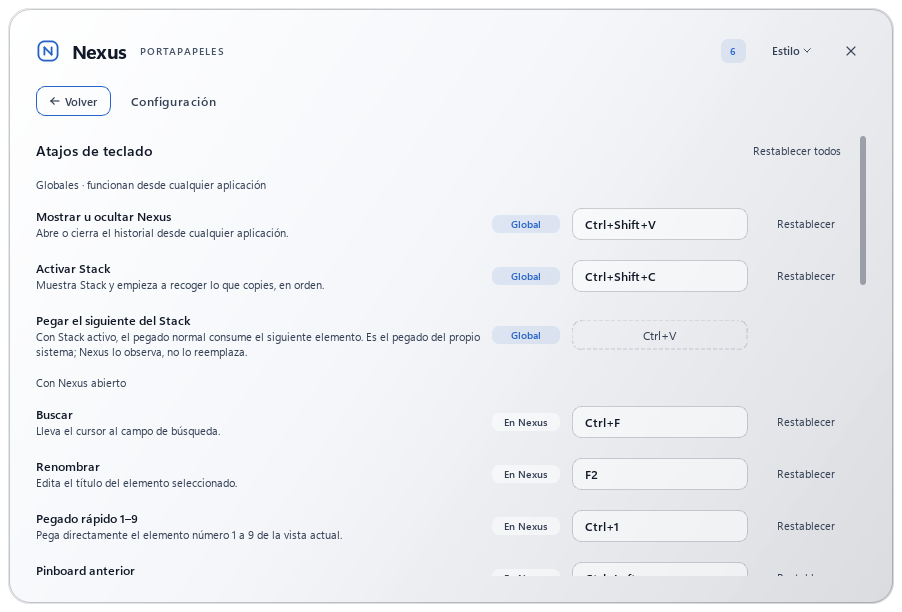
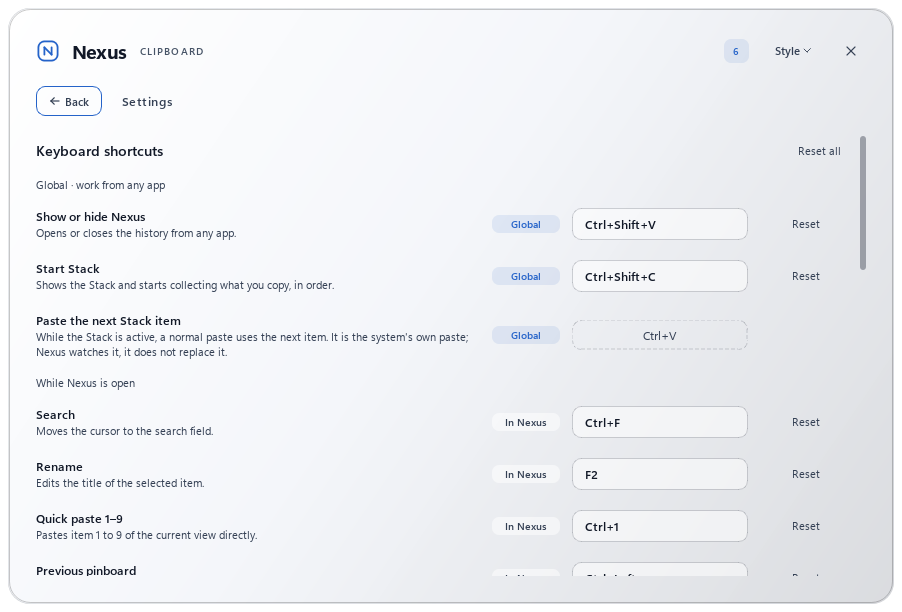
docs: platforms, macOS handoff, road to 1.0; CI; English screenshots
- README (EN/ES): platform table (Windows / Linux / macOS), installer download
  and install scope, SmartScreen note, language, how to build the installer
- docs/PLATFORMS.md: status and app requirements per system
- MACOS.md: handoff checklist for reviewing/updating the Swift build on a Mac
- ROADMAP_1.0.md: blockers for 1.0, recommendations, unification plan
- CI: tests on every push/PR (windows-latest); installer built on tags
- screenshots regenerated with the English interface
- tests: frozen start-with-Windows command; hook test skipped on CI runners

diff --git a/tests/test_audit_2026_11.py b/tests/test_audit_2026_11.py
@@ -1,4 +1,5 @@
 """Regression tests for the 2026-11 reliability/security/UX audit fixes."""
+import os
 import time
 
 import pytest
@@ -213,8 +214,8 @@ def test_paste_watcher_survives_hook_refresh_cycles(qapp, monkeypatch):
     """Regression (v4/v5): the periodic re-install read MSG.hwnd (the field is hWnd),
     killed the watcher thread after 15 s and stopped the Stack until restart."""
     import sys
-    if sys.platform != "win32":
-        pytest.skip("Windows low-level hook")
+    if sys.platform != "win32" or os.environ.get("CI"):
+        pytest.skip("Windows low-level hook on an interactive desktop")
     monkeypatch.setattr(keyboard, "HOOK_REFRESH_MS", 40)
     watcher = keyboard.WindowsPasteWatcher()
     failures = []
@@ -229,3 +230,13 @@ def test_paste_watcher_survives_hook_refresh_cycles(qapp, monkeypatch):
     finally:
         watcher.stop()
     assert not watcher._thread.is_alive()
+
+
+def test_start_with_windows_points_at_nexus_exe_when_frozen(monkeypatch):
+    import sys
+    from nexus_linux import windows_autostart
+    monkeypatch.setattr(sys, "frozen", True, raising=False)
+    monkeypatch.setattr(sys, "executable", r"C:\Users\x\AppData\Local\Programs\Nexus\Nexus.exe")
+    command = windows_autostart.launch_command()
+    assert command == r'"C:\Users\x\AppData\Local\Programs\Nexus\Nexus.exe"'
+    assert windows_autostart.is_ours(command) and not windows_autostart.is_ours(r'"C:\Other\App.exe"')

diff --git a/ROADMAP_1.0.md b/ROADMAP_1.0.md
@@ -1,0 +1,68 @@
+# Road to Nexus 1.0.0
+
+What "1.0" should mean for Nexus: **someone who has never met the author can install it on any of the three systems, use it every day without surprises, update it, and trust it with their clipboard.** Version 0.4.0 meets that bar on Windows for the core features, but not yet for trust (signing), updates, or the other two systems.
+
+## Where 0.4.0 stands
+
+| Area | State |
+|---|---|
+| Core features (history, search, pinboards, titles, Stack, themes) | Solid on Windows; 1,360+ automated tests |
+| Reliability fixes from the 2026-11 audit | Done; validated with tests and a real-clipboard probe, not yet with weeks of real use |
+| Interface language | English and Spanish (Windows) |
+| Windows installer | Done: per-user or all-users, clean uninstall |
+| Linux | Early build on its own branch, Spanish only, no package |
+| macOS | Original Swift app, outside the repository |
+| Signing, updates, CI | Missing |
+
+## Must have for 1.0 (blockers)
+
+1. **Signed Windows builds.** Unsigned installers trigger SmartScreen warnings, the main reason people abandon a download. Apply to the SignPath Foundation (free code signing for open-source projects), or buy a certificate or Azure Trusted Signing.
+2. **Real-world validation.** Two to four weeks of daily use plus a scripted native test of the risky paths: paste into Office/Chrome/Electron/terminal, the Stack across Win+L and sleep, apps running as administrator, 4K screenshots, two monitors at different DPI. Track any `paste.finish`, `capture.dropped` or `paste_watcher.*` warnings in the log.
+3. **Update path.** At minimum, an "update available" notice that checks the GitHub releases page once a day (opt-out, no data sent beyond the request). Better: winget, or an in-app updater that downloads and runs the signed installer.
+4. **Continuous integration.** Run the test suite on every push and build the installer on every tag (GitHub Actions, `windows-latest`). Releases then come from CI, not from a personal PC.
+5. **One codebase, three platforms** (see below). 1.0 should not mean "1.0 on Windows, beta elsewhere": either all three ship from this repository, or the README says plainly which systems are 1.0.
+6. **Settings that exist today only in `settings.json`**: excluded apps and history retention need a place in Settings.
+
+## Should have
+
+- **First-run guide**: three steps (shortcut, paste, Stack) on first launch, dismissible.
+- **Backup and restore from Settings**: export/import the database (the verified backup code already exists in `tools/windows_db_tools.py`).
+- **Diagnostics button**: "Copy diagnostic info" (version, OS, last 200 log lines, never clip content) for bug reports.
+- **Accessibility pass**: screen-reader names on every control, Windows high-contrast themes, full keyboard path through pinboard management.
+- **Large-history test**: 50,000 clips with images; keep open < 50 ms and search < 10 ms.
+- **CHANGELOG.md** and semantic versioning from here on.
+- **Store presence**: winget first, then Microsoft Store (MSIX), Flathub, and a notarized macOS `.pkg`.
+
+## Nice to have
+
+- Sync between devices (end-to-end encrypted, opt-in).
+- Snippets with placeholders (`{date}`, `{clipboard}`), plain-text transforms (trim, change case).
+- Per-app rules (always plain text in terminals).
+- Encryption at rest for the database (Windows DPAPI / macOS Keychain / libsecret).
+
+## Unifying the three systems
+
+Today Windows and Linux share history, storage and preview code, but each has its own windows, styles and platform code, and they live on different branches; macOS is a separate Swift app. Recommendation: **one Python + Qt 6 codebase on `main`**, organized as:
+
+```
+src/nexus/
+  core/        storage, search, previews, i18n, models, Stack logic   (no Qt widgets, no OS calls)
+  ui/          the panel, cards, Stack, settings, themes              (Qt widgets, shared by all)
+  platform/
+    windows/   clipboard events, paste (SendInput), hotkeys, autostart, Acrylic
+    linux/     wl-clipboard/X11, paste helper or portals, hotkeys, autostart (.desktop)
+    macos/     NSPasteboard, CGEvent paste (Accessibility), hotkeys, login item, vibrancy
+```
+
+Steps, each one shippable on its own:
+
+1. Move the Linux branch onto `main` behind the `platform/linux` adapter; delete duplicated UI modules in favour of the Windows ones, which are the most polished (themes, cards, Settings, i18n).
+2. Extract `core/` and `ui/` from the current `windows_*` modules (mostly renames plus small interfaces such as `ClipboardSource`, `PasteTarget`, `HotkeyService`, `Autostart`).
+3. Write `platform/macos` with PySide6 (pasteboard change count polling, `CGEventPost` for ⌘V after an Accessibility check, Carbon hotkeys via `pyobjc`), package with PyInstaller as a `.app`, and ship a `.pkg` with the per-user/all-users choice.
+4. Keep the Swift app as the design reference until the Qt macOS build matches it, then retire it (or keep it as a separate native edition if it remains clearly better).
+
+Why not three native apps: three times the features to keep in sync, which is exactly where the current Windows/Linux drift came from.
+
+## Suggested sequence
+
+0.5 Settings for exclusions and retention, CI, update notice, first-run guide → 0.6 unified codebase with Linux on `main` (Flatpak/AppImage) → 0.7 macOS on the shared codebase (signed `.pkg`) → 0.8–0.9 signing on Windows, accessibility, large-history performance, real-world beta → **1.0** when all blockers above are closed.

diff --git a/README.md b/README.md
@@ -5,7 +5,8 @@
 <h1 align="center">Nexus</h1>
 
 <p align="center">
-  <b>A fast, private clipboard manager for Windows: history, pinboards and sequential paste.</b><br>
+  <b>A fast, private clipboard manager: history, pinboards and sequential paste.</b><br>
+  Windows today, Linux in early access, macOS on the way.<br>
   Press <kbd>Ctrl</kbd>+<kbd>Shift</kbd>+<kbd>V</kbd>, find anything you copied, paste it where you were.
 </p>
 
@@ -36,6 +37,7 @@ Windows' built-in clipboard history (<kbd>Win</kbd>+<kbd>V</kbd>) keeps 25 items
 - **Nexus Stack: sequential paste.** Copy A, B, C… then press <kbd>Ctrl</kbd>+<kbd>V</kbd> repeatedly to paste them in order, or in reverse. Ideal for filling forms or moving data between apps.
 - **Keyboard first.** <kbd>Ctrl</kbd>+<kbd>1</kbd>…<kbd>9</kbd> quick paste, <kbd>Enter</kbd> paste, <kbd>Shift</kbd>+<kbd>Enter</kbd> plain text, <kbd>F2</kbd> rename, <kbd>Del</kbd> delete with <kbd>Ctrl</kbd>+<kbd>Z</kbd> undo. Every shortcut can be changed.
 - **Five themes,** including *Liquid Glass*: real Windows 11 Acrylic that follows your light/dark preference.
+- **English and Spanish,** picked automatically from your system language.
 - **Respects your privacy.** See below.
 
 <p align="center">
@@ -51,18 +53,38 @@ Nexus never sends your clipboard anywhere. Everything lives in one SQLite file u
 - **Deleted means deleted.** `secure_delete` overwrites removed clips on disk and the database compacts itself.
 - **No telemetry, no account, no network** except the optional link previews.
 
-## Install
+## Platforms
 
-Requirements: Windows 11 (Windows 10 is untested) and Python 3.11 or newer.
+| | Status | Get it |
+|---|---|---|
+| **Windows 11** | ✅ Main build, English and Spanish | [Installer (.exe)](https://github.com/Manuelcarvajal09/nexus/releases/latest) |
+| **Linux** (Wayland: Hyprland, KDE) | 🧪 Early build, Spanish interface | From source, branch [`linux/auditoria-2026-11`](https://github.com/Manuelcarvajal09/nexus/tree/linux/auditoria-2026-11) |
+| **macOS** | 🛠 Native original (Swift) being brought into this repository | Coming soon, see [MACOS.md](MACOS.md) |
+
+Requirements, packaging and install options for each system: [docs/PLATFORMS.md](docs/PLATFORMS.md). The plan to ship all three from one codebase: [ROADMAP_1.0.md](ROADMAP_1.0.md).
+
+## Install on Windows
+
+1. Download **`Nexus-Setup-<version>.exe`** from the [latest release](https://github.com/Manuelcarvajal09/nexus/releases/latest).
+2. Run it and choose **Install for me only** (no administrator rights) or **Install for all users**.
+3. Nexus starts in the notification area. Press <kbd>Ctrl</kbd>+<kbd>Shift</kbd>+<kbd>V</kbd> to open it, and turn on *Start with Windows* in **Settings** if you want it always available.
+
+> The installer is not code-signed yet, so Windows SmartScreen may say *"Windows protected your PC"*. Click **More info › Run anyway**. Each release lists the installer's SHA-256 so you can verify the download.
+
+Upgrading keeps your history, pinboards and settings. Uninstall from *Settings › Apps*; it asks before deleting your data.
+
+**Language:** the interface follows your Windows display language (Spanish, or English otherwise). Change it in **Settings › Language**.
+
+<details>
+<summary>Install with pip instead (Python 3.11+)</summary>
 
 ```powershell
 python -m pip install "git+https://github.com/Manuelcarvajal09/nexus.git"
 nexus-windows
 ```
 
-Nexus starts in the notification area. Press <kbd>Ctrl</kbd>+<kbd>Shift</kbd>+<kbd>V</kbd> to open it. Turn on *Start with Windows* in **Settings** if you want it always available.
-
 The only runtime dependency is `PySide6-Essentials` (Qt 6 Core/Gui/Widgets).
+</details>
 
 <details>
 <summary>Run from a clone (for development)</summary>
@@ -106,15 +128,23 @@ python -m venv .venv
 
 Design notes and audits live in the Markdown files at the root of the repository (in Spanish), for example [UX_AUDIT_2026-11.md](UX_AUDIT_2026-11.md).
 
-## Status
+## Building the installer
 
-- **Windows**: the main, actively developed build (this branch). The interface is currently in Spanish; English translation is welcome.
-- **Linux** (Wayland, Hyprland/KDE): early build on the [`linux/auditoria-2026-11`](https://github.com/Manuelcarvajal09/nexus/tree/linux/auditoria-2026-11) branch.
-- Nexus started as a port of a personal macOS app; the original is not published.
+```powershell
+python -m venv build-venv
+build-venv\Scripts\python -m pip install PySide6-Essentials pyinstaller
+powershell -ExecutionPolicy Bypass -File packaging\windows\build.ps1 -Python build-venv\Scripts\python.exe
+```
+
+Needs [Inno Setup 6](https://jrsoftware.org/isinfo.php). Output: `dist-installer\Nexus-Setup-<version>.exe` plus its SHA-256.
+
+## Roadmap
+
+Nexus is heading to **1.0**: signed builds, an update path, CI releases, and Windows, Linux and macOS shipped from one codebase. Details and the release sequence are in [ROADMAP_1.0.md](ROADMAP_1.0.md).
 
 ## Contributing
 
-Issues and pull requests are welcome. Good first contributions: an English translation of the interface, more card types, and testing on different Windows setups. See [CONTRIBUTING.md](CONTRIBUTING.md).
+Issues and pull requests are welcome. Good first contributions: more interface languages (see `src/nexus_linux/i18n_en.py`), more card types, testing on different Windows setups, and help with the Linux and macOS builds. See [CONTRIBUTING.md](CONTRIBUTING.md).
 
 If Nexus saves you time, a ⭐ helps other people find it.
 

diff --git a/docs/PLATFORMS.md b/docs/PLATFORMS.md
@@ -1,0 +1,53 @@
+# Platforms: status and app requirements
+
+Nexus has three builds today. They share the product (history, pinboards, Nexus Stack, themes) but not yet one codebase; see [ROADMAP_1.0.md](../ROADMAP_1.0.md) for the unification plan.
+
+| | Windows | Linux | macOS |
+|---|---|---|---|
+| Code | `main` (this branch), Python + Qt 6 | [`linux/auditoria-2026-11`](https://github.com/Manuelcarvajal09/nexus/tree/linux/auditoria-2026-11), Python + Qt 6 | Original Swift/SwiftUI app, not yet in this repository |
+| Status | Main build, released | Early build, Wayland (Hyprland/KDE) | Private original; to be reviewed and published |
+| Interface language | English / Spanish (automatic) | Spanish | Spanish |
+| Installer | `Nexus-Setup-<version>.exe` | Not yet | Not yet |
+
+Legend below: ✅ done · 🟡 partial · ❌ missing.
+
+## Windows
+
+| Requirement | Status | Notes |
+|---|---|---|
+| Native installer with uninstaller | ✅ | Inno Setup 6 (`packaging/windows`). Registers in *Settings › Apps* with publisher, version and icon. |
+| Install scope: current user or all users | ✅ | First page asks. "Only for me": no administrator rights, `%LOCALAPPDATA%\Programs\Nexus`. "All users": UAC, `Program Files\Nexus`. |
+| User data outside the install folder | ✅ | `%LOCALAPPDATA%\Nexus` per user; kept on upgrade; the uninstaller asks before deleting it. |
+| Upgrade in place | ✅ | Same `AppId`; a running Nexus is detected and closed first. |
+| File version resource (Explorer › Details) | ✅ | Product, company, version, copyright. |
+| Start menu entry with AppUserModelID | ✅ | Notifications and taskbar group under Nexus. |
+| Start with Windows: per user, off by default | ✅ | Settings › Startup (`HKCU\...\Run`); removed by the uninstaller. |
+| High DPI, light/dark, reduced motion | ✅ | Qt 6 per-monitor DPI; Liquid Glass follows the system theme; respects animation settings. |
+| Code signing (Authenticode) | ❌ | Unsigned: SmartScreen shows "Windows protected your PC" until the file builds reputation. Free option for open source: SignPath Foundation; paid: a code-signing certificate or Azure Trusted Signing. |
+| winget package | ❌ | Possible once releases are signed or have some reputation (manifest points at the release asset). |
+| Microsoft Store (MSIX) | ❌ | Needs an MSIX package and a Partner Center account. |
+| Automatic updates | ❌ | Today: download the new installer; settings and history are kept. |
+
+## Linux
+
+| Requirement | Status | Notes |
+|---|---|---|
+| `.desktop` entry and icon | 🟡 | `resources/nexus-linux.desktop` and PNG icons exist; not yet installed to the XDG `hicolor` theme sizes. |
+| AppStream metainfo (`io.github.manuelcarvajal09.Nexus.metainfo.xml`) | ❌ | Needed by software centers and Flathub. |
+| Package | ❌ | Recommended: Flatpak (Flathub) for distribution, AppImage as a single-file download. |
+| Install scope | ❌ | Flatpak covers both: `flatpak install --user` (per user, `~/.local/share/flatpak`) or `--system` (all users, needs admin). AppImage is always per user. |
+| XDG base directories | ✅ | Data in `$XDG_DATA_HOME`, config in `$XDG_CONFIG_HOME`. |
+| Wayland clipboard and paste | 🟡 | Works on wlroots/KDE with `wl-clipboard` and a paste helper; GNOME restricts global shortcuts and synthetic input (portal-based work needed). |
+
+## macOS
+
+| Requirement | Status | Notes |
+|---|---|---|
+| App bundle (`Nexus.app`) | 🟡 | The Swift original builds one; not in this repository yet. |
+| Code signing + notarization | ❌ | Requires an Apple Developer account (paid). Without it Gatekeeper blocks the first launch. |
+| Hardened Runtime and privacy strings | ❌ | Synthetic paste needs the **Accessibility** permission (`AXIsProcessTrusted`); the app must explain why. |
+| Install scope: current user or all users | ❌ | A signed `.pkg` built with `productbuild` and `<domains enable_currentUserHome="true" enable_localSystem="true"/>` makes macOS Installer ask "Install for me only" (`~/Applications`) or "Install for all users of this computer" (`/Applications`). A `.dmg` is drag-to-install only. |
+| Universal binary (Apple silicon + Intel) | ❌ | `xcodebuild -arch arm64 -arch x86_64`. |
+| Updates | ❌ | Sparkle is the usual choice outside the App Store. |
+
+See [MACOS.md](../MACOS.md) for the step-by-step handoff to bring the macOS build into this repository.

diff --git a/README.es.md b/README.es.md
@@ -5,7 +5,8 @@
 <h1 align="center">Nexus</h1>
 
 <p align="center">
-  <b>Gestor de portapapeles rápido y privado para Windows: historial, pinboards y pegado secuencial.</b><br>
+  <b>Gestor de portapapeles rápido y privado: historial, pinboards y pegado secuencial.</b><br>
+  Windows hoy, Linux en acceso anticipado y macOS en camino.<br>
   Pulsa <kbd>Ctrl</kbd>+<kbd>Mayús</kbd>+<kbd>V</kbd>, encuentra lo que copiaste y pégalo donde estabas.
 </p>
 
@@ -27,6 +28,27 @@ El historial de Windows (<kbd>Win</kbd>+<kbd>V</kbd>) guarda 25 elementos, los o
 - **Nexus Stack**: copia A, B, C… y pulsa <kbd>Ctrl</kbd>+<kbd>V</kbd> varias veces para pegarlos en orden o al revés. Ideal para formularios.
 - **Pensado para el teclado**: <kbd>Ctrl</kbd>+<kbd>1</kbd>…<kbd>9</kbd>, <kbd>Enter</kbd>, <kbd>Mayús</kbd>+<kbd>Enter</kbd> (texto plano), <kbd>F2</kbd> (renombrar), <kbd>Supr</kbd> con <kbd>Ctrl</kbd>+<kbd>Z</kbd> para deshacer. Todos los atajos se pueden cambiar.
 - **Cinco temas**, incluido *Liquid Glass* con Acrylic real de Windows 11 que sigue tu modo claro u oscuro.
+- **Español e inglés**, según el idioma de tu sistema.
+
+## Plataformas
+
+| | Estado | Cómo obtenerlo |
+|---|---|---|
+| **Windows 11** | ✅ Versión principal, en español e inglés | [Instalador (.exe)](https://github.com/Manuelcarvajal09/nexus/releases/latest) |
+| **Linux** (Wayland: Hyprland, KDE) | 🧪 Versión temprana, interfaz en español | Desde el código, rama [`linux/auditoria-2026-11`](https://github.com/Manuelcarvajal09/nexus/tree/linux/auditoria-2026-11) |
+| **macOS** | 🛠 App nativa original (Swift) en proceso de incorporarse a este repositorio | Próximamente, ver [MACOS.md](MACOS.md) |
+
+Requisitos y opciones de instalación de cada sistema: [docs/PLATFORMS.md](docs/PLATFORMS.md). Plan para la 1.0 y la unificación: [ROADMAP_1.0.md](ROADMAP_1.0.md).
+
+## Instalación en Windows
+
+1. Descarga **`Nexus-Setup-<versión>.exe`** desde la [última versión](https://github.com/Manuelcarvajal09/nexus/releases/latest).
+2. Ejecútalo y elige **Instalar solo para mí** (sin permisos de administrador) o **Instalar para todos los usuarios**.
+3. Nexus queda en el área de notificación. Ábrelo con <kbd>Ctrl</kbd>+<kbd>Mayús</kbd>+<kbd>V</kbd> y, si quieres, activa *Inicio con Windows* en **Configuración**.
+
+> El instalador aún no está firmado, así que SmartScreen puede mostrar *«Windows protegió su PC»*. Pulsa **Más información › Ejecutar de todas formas**. Cada versión publica el SHA-256 del instalador para que puedas comprobarlo.
+
+Actualizar conserva tu historial, pinboards y configuración. Para desinstalar, ve a *Configuración › Aplicaciones*; te preguntará antes de borrar tus datos.
 
 ## Privacidad
 
@@ -36,22 +58,6 @@ Nada sale de tu equipo: todo vive en un archivo SQLite en `%LOCALAPPDATA%\Nexus`
 - La vista previa de enlaces es opcional y nunca abre enlaces de un solo uso (restablecer contraseña, inicios de sesión, descargas firmadas).
 - Lo que borras se sobrescribe en disco y la base se compacta sola.
 - Sin telemetría, sin cuenta y sin red, salvo la vista previa opcional.
-
-## Instalación
-
-Requisitos: Windows 11 (Windows 10 sin probar) y Python 3.11 o superior.
-
-```powershell
-python -m pip install "git+https://github.com/Manuelcarvajal09/nexus.git"
-nexus-windows
-```
-
-Nexus se queda en el área de notificación. Actívalo con <kbd>Ctrl</kbd>+<kbd>Mayús</kbd>+<kbd>V</kbd> y, si quieres, enciende *Inicio con Windows* en **Configuración**.
-
-## Estado
-
-- **Windows**: versión principal (esta rama). La interfaz está en español.
-- **Linux** (Wayland): versión temprana en la rama [`linux/auditoria-2026-11`](https://github.com/Manuelcarvajal09/nexus/tree/linux/auditoria-2026-11).
 
 ## Contribuir
 

diff --git a/MACOS.md b/MACOS.md
@@ -1,0 +1,44 @@
+# macOS handoff
+
+Instructions for the session that will review and update the macOS build **on a Mac** (for example Claude Code opened in the Mac's copy of the original project). Everything else in this repository is up to date as of version 0.4.0.
+
+## Where things are
+
+- **This repository** (`main`): the Windows build (Python 3.11 + PySide6/Qt 6), the most complete version of Nexus. Read `README.md`, `UX_AUDIT_2026-11.md` and `ROADMAP_1.0.md` first.
+- **Linux build**: branch `linux/auditoria-2026-11`.
+- **macOS original**: Swift + SwiftUI/AppKit + Core Data, in `~/Documents/Nexus` on the Mac (called *Nexus-original* in `MIGRATION_LINUX.md`). It is **not** in this repository yet.
+
+## Goals
+
+1. Put the macOS source under version control in this repository, in `macos/` (no build products, no `DerivedData`, no personal data, no signing identities).
+2. Bring the macOS app to parity with the Windows build (list below).
+3. Prepare a distributable: signed, notarized `.pkg` that lets the user choose **only for me** or **all users** (see `docs/PLATFORMS.md`).
+4. Decide, with Manuel, between keeping the native Swift app or moving macOS onto the shared Qt codebase (see "Unification" in `ROADMAP_1.0.md`).
+
+## Parity checklist (what the Windows build does that macOS should match)
+
+Reliability
+- [ ] Paste back into the previous app: remember the frontmost app when the panel opens, reactivate it, send ⌘V; if that cannot work, say so and leave the content on the clipboard.
+- [ ] Sequential paste (Nexus Stack): copy A, B, C, then ⌘V pastes them in order or reversed; an empty Stack must not swallow ⌘V.
+- [ ] Never treat a stale modifier as held (event taps can miss key-ups across screen lock).
+
+Privacy
+- [ ] Skip pasteboard items marked as concealed/transient: `org.nspasteboard.ConcealedType`, `org.nspasteboard.TransientType`, `org.nspasteboard.AutoGeneratedType` (password managers set these).
+- [ ] Link previews: only public addresses, never one-time/secret links (tokens, codes, signatures, credentials, reset/login paths), with a setting to turn them off. The rules are in `src/nexus_linux/web_preview.py` (`is_sensitive_url`, `_is_safe_ip`).
+- [ ] Deleting a clip removes it from disk (Core Data/SQLite secure delete or vacuum).
+
+Features and UX
+- [ ] English and Spanish interface, automatic from the system language with a manual override. Reuse the wording in `src/nexus_linux/i18n_en.py`.
+- [ ] Search that ignores accents; quick paste 1–9; rename (titles); delete with undo; pinboards with counts.
+- [ ] Stack order labels "In order / Reversed" (no FIFO/LIFO in the UI); arrows when cards overflow; readable error text in light mode (contrast ≥ 4.5:1).
+- [ ] The five themes (Liquid Glass, Midnight Teal, Tech Neon, Storem, Minimalist): tokens in `src/nexus_linux/windows_design.py`.
+
+Packaging
+- [ ] Bundle id, version and build number aligned with `pyproject.toml` (`0.4.0`).
+- [ ] Hardened Runtime, `NSAppleEventsUsageDescription`/Accessibility explanation, login item via `SMAppService`.
+- [ ] `productbuild` distribution with `<domains enable_currentUserHome="true" enable_localSystem="true"/>`.
+- [ ] Signing and notarization need Manuel's Apple Developer account: ask before using any identity; never commit certificates or passwords.
+
+## When done
+
+Open a pull request against `main` that adds `macos/`, updates `docs/PLATFORMS.md` (macOS column) and the README's platform table, and lists what was verified on the Mac and what was not.

diff --git a/CONTRIBUTING.md b/CONTRIBUTING.md
@@ -25,12 +25,12 @@ To see the interface with sample data (no clipboard, no hotkeys):
 - Keep changes small and focused; one topic per pull request.
 - Add or update a test for every behaviour change.
 - Never log clipboard content. Diagnostics may contain counts, ids and result codes only.
-- The UI is in Spanish today. New strings are fine in Spanish or English; a proper translation layer is a welcome contribution.
+- Interface text goes through `tr()` (`src/nexus_linux/i18n.py`): write the Spanish source text and add its English translation to `i18n_en.py`; `tests/test_i18n.py` fails if one is missing. New languages are welcome.
 - Windows-specific code lives in `src/nexus_linux/windows_*.py`. Shared modules (`storage.py`, `web_preview.py`, …) are also used by the Linux build, so keep them platform-neutral.
 
 ## Good first issues
 
-- English translation of the interface.
+- A third interface language.
 - New card types (for example phone numbers or emails).
 - Testing on different Windows versions, DPI settings and multi-monitor setups.
 
